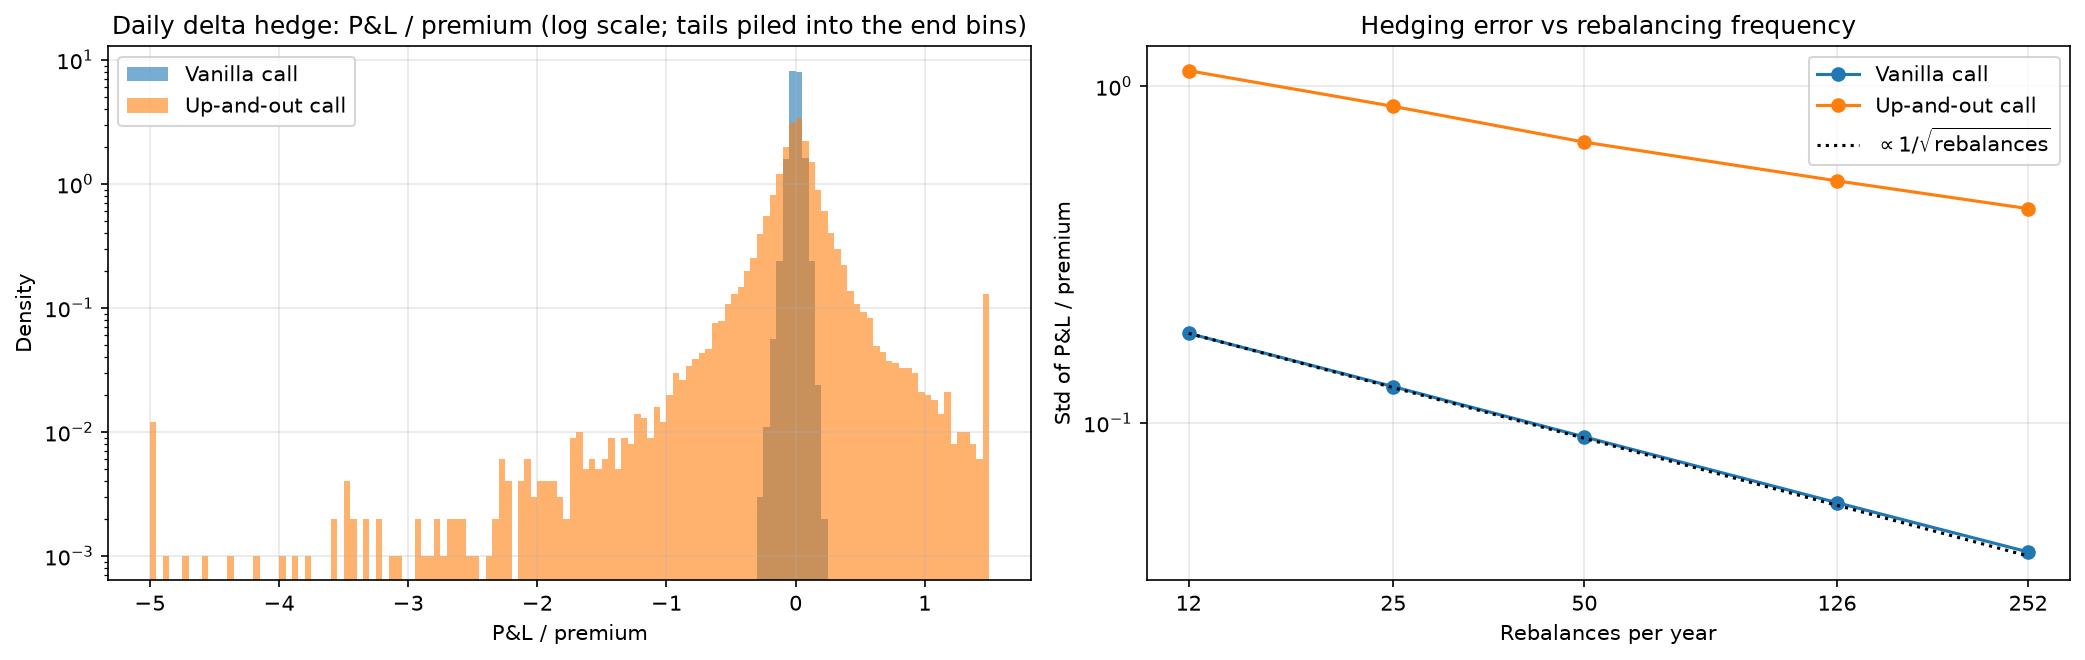
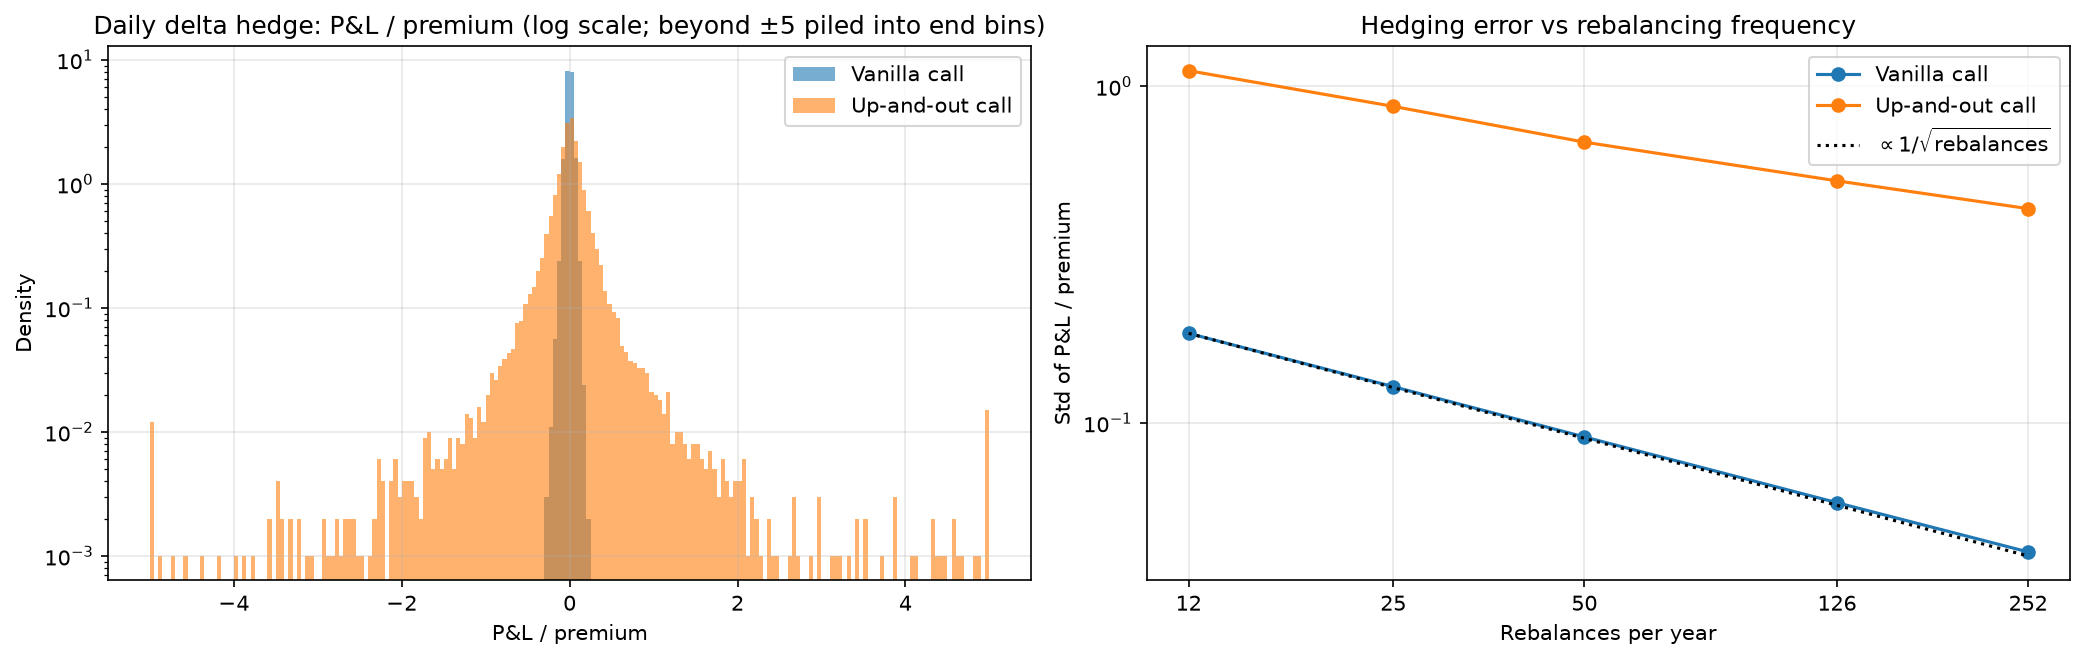
docs: correct tree-bias, hedging-tail and monitoring claims after review

diff --git a/README.md b/README.md
@@ -13,8 +13,9 @@ It then delta-hedges the option to see what its Greeks mean in practice. Two fin
 - **The price depends on how often the barrier is checked.** A contract checked at each
   daily close is worth about 7% more than the textbook continuous-barrier price. That gap is
   not simulation error.
-- **The option is hard to hedge near the barrier.** Delta-hedging breaks down there, and
-  almost all of the large hedging losses come from paths that got close to it.
+- **The option is hard to hedge near the barrier.** Delta-hedging breaks down there: almost
+  all of the extreme hedging outcomes, gains and losses alike, come from paths that got
+  close to it.
 
 The pricing code is a small tested package (`src/barrier_pricing`). The notebook
 [`notebooks/barrier_option_pricing.ipynb`](notebooks/barrier_option_pricing.ipynb) tells the
@@ -59,9 +60,11 @@ knockout risk than intrinsic value. Gamma changes sign twice, at about 86 and ab
 ![Hedging P&L](figures/hedging_pnl.png)
 
 **Hedging.** With daily rebalancing, the vanilla call's hedging error is 4% of the premium.
-The barrier option's is 43%, with a heavy left tail, and it shrinks much more slowly as
-rebalancing gets more frequent. 98% of the worst 1% of outcomes come from paths that came
-within 5% of the barrier.
+The barrier option's is 43%, with fat tails on both sides, and it shrinks much more slowly as
+rebalancing gets more frequent. 98% of the worst 1% of outcomes, and 99% of the best 1%, come
+from paths that came within 5% of the barrier. The cause is a cliff: near expiry the option is
+worth several premiums just below H and nothing at H, and a stock hedge cannot replicate a
+cliff.
 
 ## Which price is right?
 
